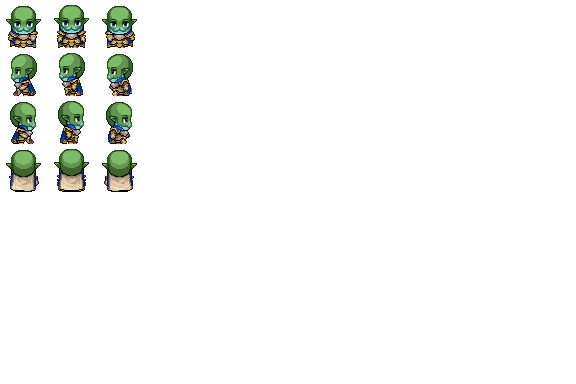
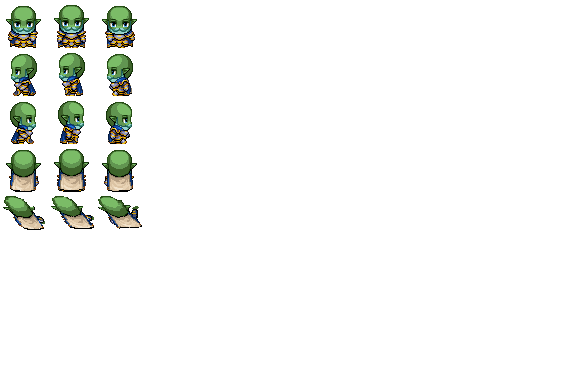
adicionando animação podre de hook

Changed region(s): [[0.0, 0.5, 0.25, 0.5938]]

diff --git a/src/app/entities/hookAttack.ts b/src/app/entities/hookAttack.ts
@@ -32,12 +32,15 @@ export class HookAttack {
         // Resetar a velocidade do personagem Horda
         this.heroHorda.setVelocity(0, 0);
 
+         // Chamar a animação de hook up
+         this.heroHorda.play('horda_hook', true);
+
         // Posição inicial do gancho
-        const hookStartX = this.heroHorda.x;
-        const hookStartY = this.heroHorda.y;
+        const hookStartX = this.heroHorda.x + 13;
+        const hookStartY = this.heroHorda.y - 7;
 
         // Ajustar a posição inicial da corda
-        const ropeOffsetX = -4; // Ajuste conforme necessário
+        const ropeOffsetX = 0; // Ajuste conforme necessário
         const ropeOffsetY = 0; // Ajuste conforme necessário para mover a corda para frente
 
         // Criar o sprite da corda com a animação
@@ -60,12 +63,12 @@ export class HookAttack {
         // Definir o crescimento da corda
         this.scene.tweens.add({
             targets: this.rope,
-            displayHeight: 320, // Aumente a altura final da corda conforme necessário
-            duration: 1500, // Duração do crescimento da corda
+            displayHeight: 300, // Aumente a altura final da corda conforme necessário
+            duration: 1000, // Duração do crescimento da corda
             onUpdate: () => {
                 // Manter a posição da base da corda constante e apenas estender para cima
                 this.rope.y = hookStartY - this.rope.displayHeight / 2;
-                this.hook.y = this.rope.y - this.rope.displayHeight / 2;
+                this.hook.y = this.rope.y - this.rope.displayHeight / 2 - 8; // Ajuste conforme necessário para manter o gancho alinhado
             },
             onComplete: () => {
                 // Iniciar o retorno do gancho se não atingir o inimigo
@@ -94,10 +97,10 @@ export class HookAttack {
         this.scene.tweens.add({
             targets: this.rope,
             displayHeight: 1, // Voltar a altura da corda ao valor inicial
-            duration: 800, // Duração do retorno da corda
+            duration: 700, // Duração do retorno da corda
             onUpdate: () => {
                 // Manter a posição da base da corda constante durante o retorno
-                const hookStartY = this.heroHorda.y;
+                const hookStartY = this.heroHorda.y - 7;
                 this.rope.y = hookStartY - this.rope.displayHeight / 2;
                 this.hook.y = this.rope.y - this.rope.displayHeight / 2;
             },

diff --git a/src/app/entities/hordaPlayer.ts b/src/app/entities/hordaPlayer.ts
@@ -67,6 +67,16 @@ export class HeroHorda extends Entity {
             repeat: -1
         });
 
+        anims.create({
+            key: 'horda_hook',
+            frames: anims.generateFrameNumbers(this.textureKey, {
+                start: 48,
+                end: 50
+            }),
+            frameRate: 20,
+            
+        });
+
         this.keys = this.scene.input.keyboard.addKeys({
             w: Phaser.Input.Keyboard.KeyCodes.W,
             a: Phaser.Input.Keyboard.KeyCodes.A,

diff --git a/src/app/home/home.component.ts b/src/app/home/home.component.ts
@@ -25,7 +25,7 @@ export class HomeComponent implements OnInit, OnDestroy {
         mode: Phaser.Scale.FIT,
         autoCenter: Phaser.Scale.CENTER_BOTH
       },
-      physics: { default: "arcade", arcade: { debug: true } },
+      physics: { default: "arcade", arcade: { debug: false } },
       // scene: [MenuScene, GameScene, DemoScene],
       scene: [HookScene],
       pixelArt: true

diff --git a/src/app/scenes/hook_fight.ts b/src/app/scenes/hook_fight.ts
@@ -25,8 +25,7 @@ export class HookScene extends Phaser.Scene {
         loadShopAliancaSprites(this);
         loadShopHordaSprites(this);
 
-        loadHookSprites(this);
-        this.load.spritesheet('rope', 'assets/attack/rope.png', { frameWidth: 16, frameHeight: 16 });
+        loadHookSprites(this);        
 
         loadAliancaSprites(this);
         loadHordaSprites(this);
